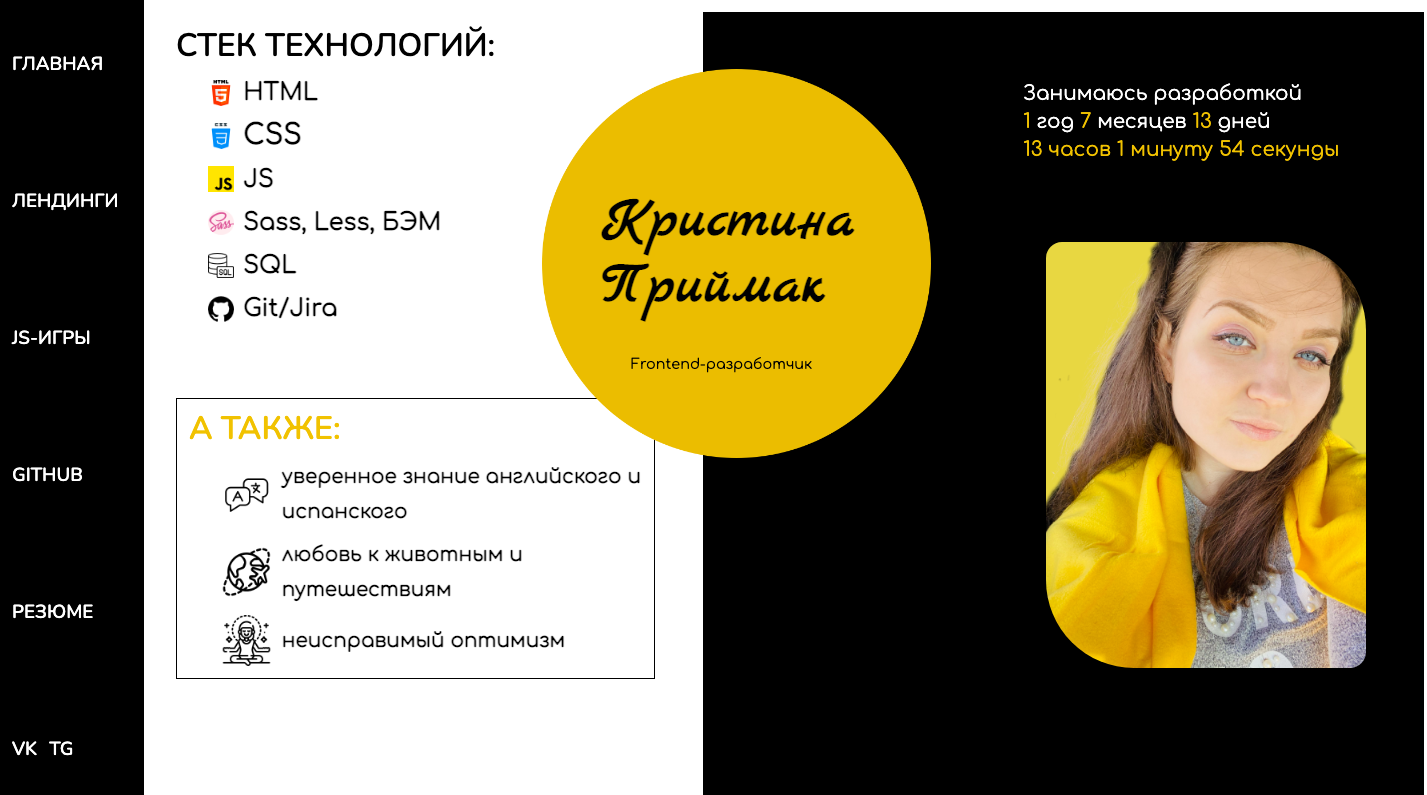
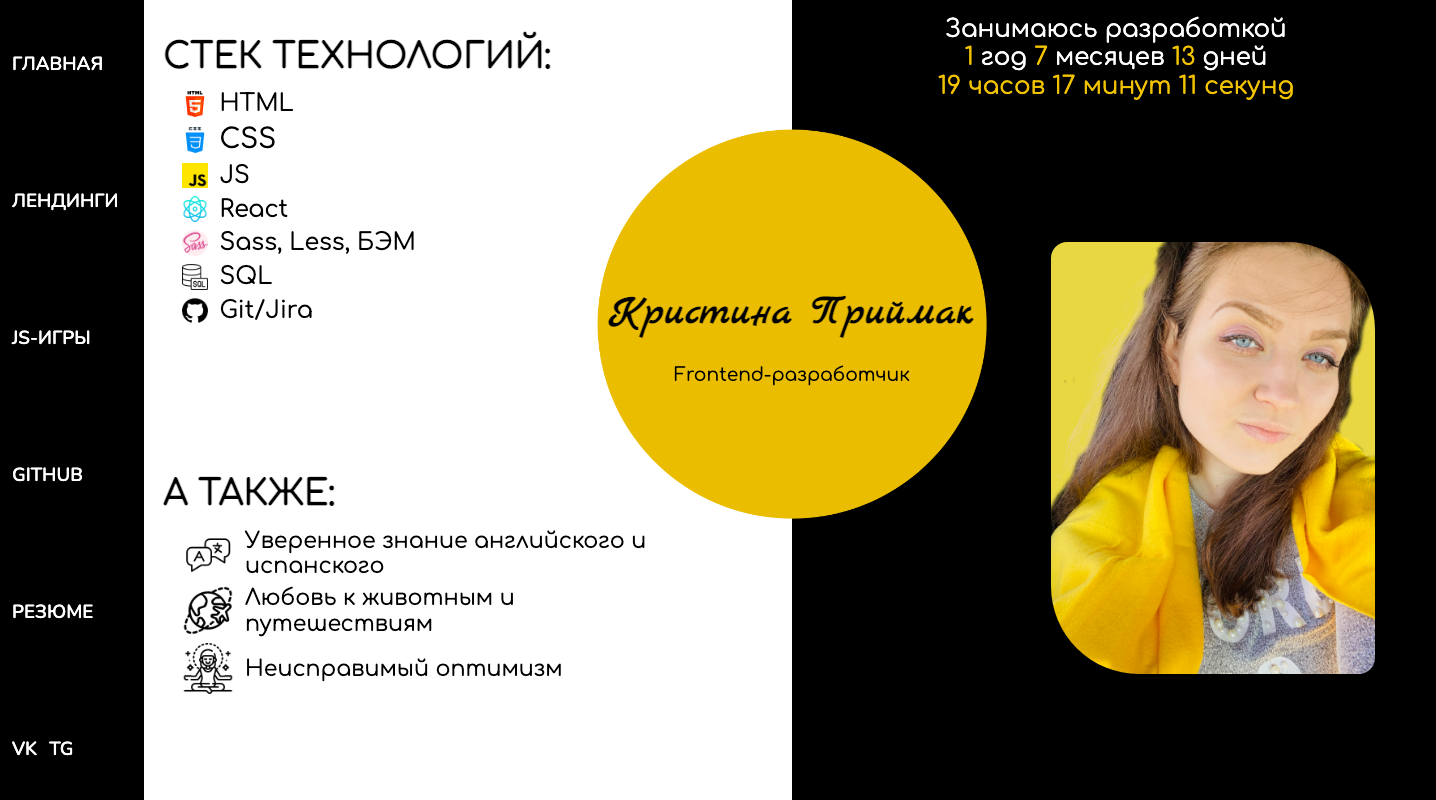
update main page

diff --git a/index.html b/index.html
@@ -36,18 +36,26 @@
                     <h2 class="main-description__stack-title">Стек технологий:</h2>
                     <ul class="main-description__stack-list">
                         <li class="main-description__stack-list__item">
-                            <img src="/media/html.png" alt="icon"> HTML</li>
-                            <li class="main-description__stack-list__item">
-                                <img src="/media/sass.png" alt="icon"> Sass, Less, БЭМ</li>
+                            <img src="/media/html.png" alt="icon"> HTML
+                        </li>
                         <li class="main-description__stack-list__item">
                             <img src="/media/css.png" alt="icon"> CSS
                         </li>
                         <li class="main-description__stack-list__item">
-                            <img src="/media/js.png" alt="icon"> JS</li>
+                            <img src="/media/js.png" alt="icon"> JS
+                        </li>
                         <li class="main-description__stack-list__item">
-                            <img src="/media/sql.png" alt="icon"> SQL</li>
+                            <img style="width: 32px;" src="/media/react.png" alt="icon"> React
+                        </li>
                         <li class="main-description__stack-list__item">
-                            <img src="/media/github.png" alt="icon"> Git/Jira</li>
+                            <img src="/media/sass.png" alt="icon"> Sass, Less, БЭМ
+                        </li>
+                        <li class="main-description__stack-list__item">
+                            <img src="/media/sql.png" alt="icon"> SQL
+                        </li>
+                        <li class="main-description__stack-list__item">
+                            <img src="/media/github.png" alt="icon"> Git/Jira
+                        </li>
                     </ul>
                 </div>
                 <div id="like_button_container"></div>

diff --git a/styles/style.scss b/styles/style.scss
@@ -216,13 +216,12 @@ $blue: #8bcdcd;
                     height: 80vh;
                     border-radius: 20px;
                     margin: 10px;
-                    cursor: pointer;
                     flex: 1;
                     background-size: cover;
-                    //background-position: center;
                     background-repeat: no-repeat;
                     transition: all 500ms ease-in-out;
                     position: relative;
+                    cursor: pointer;
 
                     &__title {
                         position: absolute;
@@ -230,6 +229,7 @@ $blue: #8bcdcd;
                         bottom: 20px;
                         left: 500px;
                         opacity: 0;
+                        cursor: pointer;
                         a {
                             color: #000;
                             background-color: #aaa;
@@ -244,6 +244,7 @@ $blue: #8bcdcd;
 
                 .active {
                     flex: 10;
+                    cursor: auto;
 
                     & h3 {
                         opacity: 1;

diff --git a/styles/style.css b/styles/style.css
@@ -528,7 +528,6 @@ template {
   height: 80vh;
   border-radius: 20px;
   margin: 10px;
-  cursor: pointer;
   -webkit-box-flex: 1;
       -ms-flex: 1;
           flex: 1;
@@ -537,6 +536,7 @@ template {
   -webkit-transition: all 500ms ease-in-out;
   transition: all 500ms ease-in-out;
   position: relative;
+  cursor: pointer;
 }
 .page .main-landings__container-slide__title {
   position: absolute;
@@ -544,6 +544,7 @@ template {
   bottom: 20px;
   left: 500px;
   opacity: 0;
+  cursor: pointer;
 }
 .page .main-landings__container-slide__title a {
   color: #000;
@@ -559,6 +560,7 @@ template {
   -webkit-box-flex: 10;
       -ms-flex: 10;
           flex: 10;
+  cursor: auto;
 }
 .page .main-landings__container .active h3 {
   opacity: 1;

diff --git a/projects/landings.html b/projects/landings.html
@@ -32,13 +32,6 @@
             </nav>
         </header>
         <main class="main">
-            <!-- <div class="main-colors">
-                <ul class="main-colors__list">
-                    <li class="main-colors__list-yellow">Y</li>
-                    <li class="main-colors__list-green">G</li>
-                    <li class="main-colors__list-blue">B</li>
-                </ul>
-            </div> -->
 
             <div class="main-landings">
                 <div class="main-landings__container">
